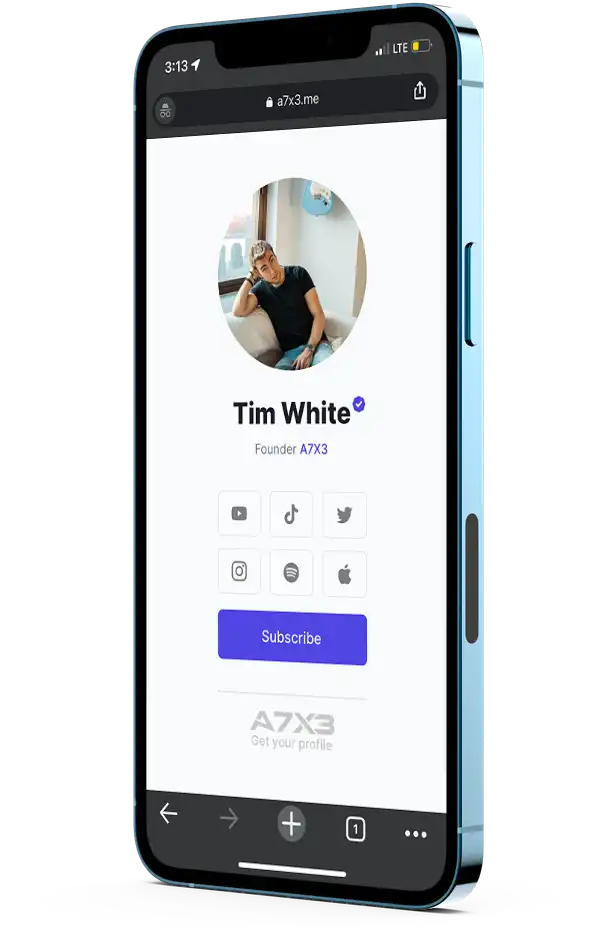
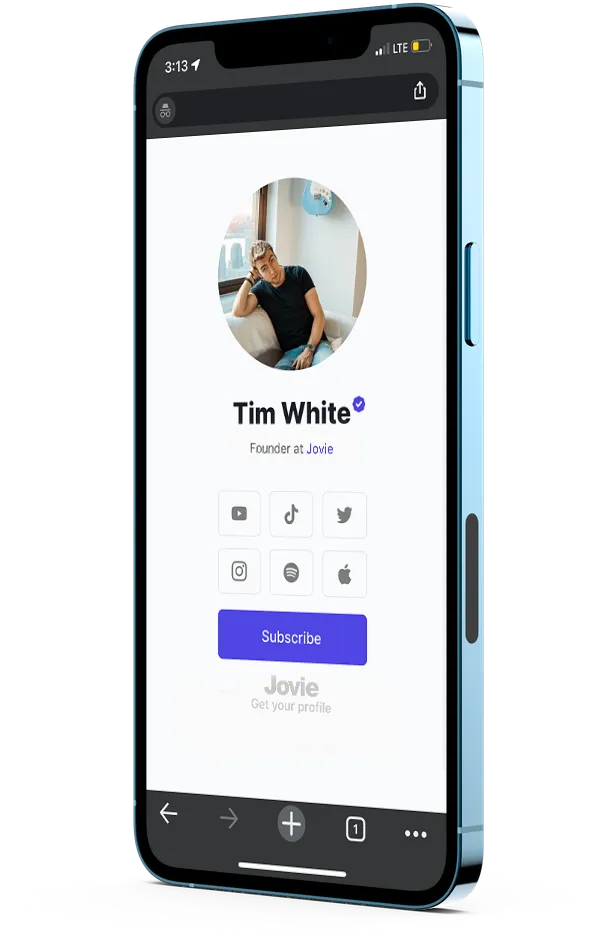
Updates external marketing

Changed region(s): [[0.4056, 0.7103, 0.5616, 0.803], [0.4056, 0.4633, 0.5616, 0.4941], [0.4368, 0.0927, 0.5304, 0.1235]]

diff --git a/resources/js/views/Terms.vue b/resources/js/views/Terms.vue
@@ -45,8 +45,8 @@
             <p
               class="m-0 border-0 px-0 pt-1 pb-0 text-xs not-italic leading-5"
               style="font-weight: normal">
-              Jovie Inc <br class="" />124 West 60th St <br class="" />43G
-              <br class="" />New York NY 10023
+              Jovie Inc <br class="" />1600 Vine St
+              <br class="" />Los Angeles, CA 90028
             </p>
             <p
               class="m-0 border-0 px-0 pt-3 pb-0 text-xs not-italic leading-5"
@@ -56,7 +56,7 @@
                 style="font-weight: bold; font-size: 128%"
                 >Owner contact email:</strong
               >
-              support@Jovie.ai
+              support@jov.ie
             </p>
           </div>
 
@@ -904,4 +904,5 @@ export default {
     //add segment analytics
     window.analytics.page(this.$route.path);
   },
-};</script>
+};
+</script>

diff --git a/resources/js/views/Privacy.vue b/resources/js/views/Privacy.vue
@@ -47,8 +47,8 @@
             <p
               class="m-0 border-0 px-0 pt-1 pb-0 text-xs not-italic leading-5"
               style="font-weight: normal">
-              Jovie Inc <br class="" />124 West 60th St <br class="" />43G
-              <br class="" />New York NY 10023
+              Jovie Inc <br class="" />1600 Vine St 
+              <br class="" />Los Angeles CA 90028
             </p>
             <p
               class="m-0 border-0 px-0 pt-3 pb-0 text-xs not-italic leading-5"
@@ -58,7 +58,7 @@
                 style="font-weight: bold; font-size: 128%"
                 >Owner contact email:</strong
               >
-              support@Jovie.ai
+              support@jov.ie
             </p>
           </div>
 

diff --git a/resources/js/components/External/ExternalFooter.vue b/resources/js/components/External/ExternalFooter.vue
@@ -245,9 +245,8 @@ import { defineComponent, h } from 'vue';
 import ButtonGroup from '../ButtonGroup.vue';
 const navigation = {
   solutions: [
-    { name: 'Contact Profiles', href: '/profiles' },
     { name: 'Social CRM', href: '/' },
-
+    { name: 'Contact Profiles', href: '/profiles' },
     { name: 'Chrome Extension', href: 'chrome-extension' },
   ],
   support: [
@@ -257,7 +256,7 @@ const navigation = {
     { name: 'Status', href: 'Status' },
   ],
   company: [
-    { name: 'About', href: 'about' },
+    /*  { name: 'About', href: 'about' }, */
     { name: 'Careers', href: 'Careers' },
 
     /*  { name: 'Our Data', href: 'data' }, */

diff --git a/resources/js/components/Home/HomeFeatureHero.vue b/resources/js/components/Home/HomeFeatureHero.vue
@@ -280,7 +280,7 @@
                       clip-rule="evenodd" />
                   </svg>
                 </div>
-                <h2 class="text-[8px] text-gray-500">New York, NY</h2>
+                <h2 class="text-[8px] text-gray-500">Los Angeles, CA</h2>
                 <div class="py-0.5">
                   <span
                     class="inline-flex items-center rounded-md bg-indigo-100 px-2.5 py-0.5 text-[8px] font-medium text-indigo-800">
